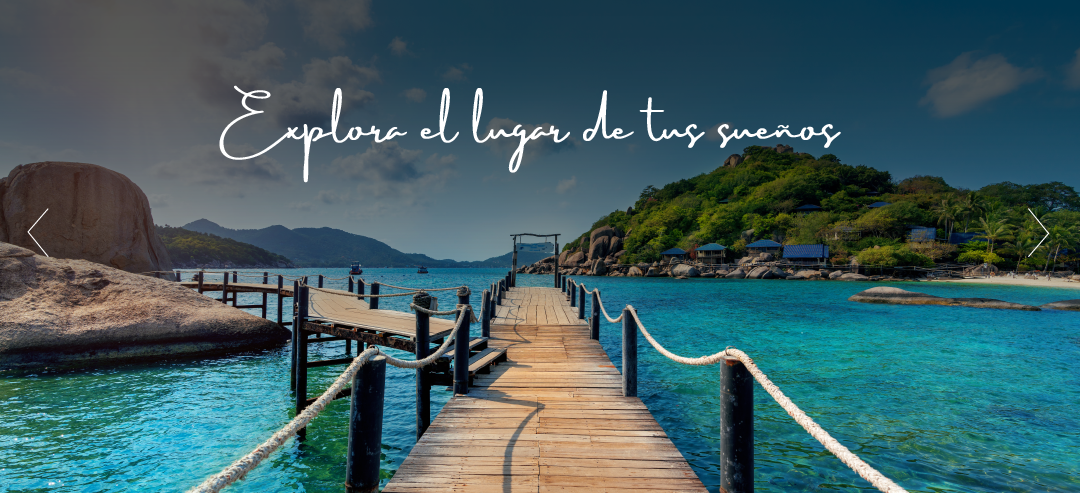
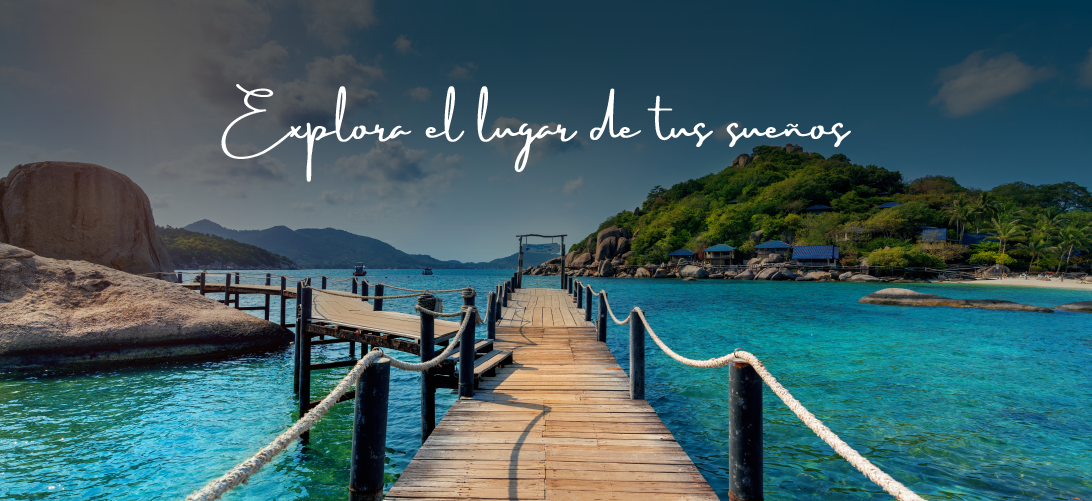
agregue slide y hice algunos elementos responsive

diff --git a/section/paquetes.html b/section/paquetes.html
@@ -6,7 +6,7 @@
     <meta name="viewport" content="width=device-width, initial-scale=1.0">
     <title>Lugones Turismo</title>
     <link href="https://cdn.jsdelivr.net/npm/bootstrap@5.1.3/dist/css/bootstrap.min.css" rel="stylesheet" integrity="sha384-1BmE4kWBq78iYhFldvKuhfTAU6auU8tT94WrHftjDbrCEXSU1oBoqyl2QvZ6jIW3" crossorigin="anonymous">
-    <link rel="shortcut icon" href="./img/favicon.png">
+    
     <link rel="stylesheet" href="../style/style.css"/>
 </head>
 <body>
@@ -39,13 +39,32 @@
 
     </header>
     
-    <section>
-        <div id="slide">
-        
-            <img src="../img/carrusel2.png" alt="slide" class="slide__foto1"/>
-    
+    <div id="carouselExampleIndicators" class="carousel slide" data-bs-ride="carousel">
+      <div class="carousel-indicators">
+        <button type="button" data-bs-target="#carouselExampleIndicators" data-bs-slide-to="0" class="active" aria-current="true" aria-label="Slide 1"></button>
+        <button type="button" data-bs-target="#carouselExampleIndicators" data-bs-slide-to="1" aria-label="Slide 2"></button>
+        <button type="button" data-bs-target="#carouselExampleIndicators" data-bs-slide-to="2" aria-label="Slide 3"></button>
+      </div>
+      <div class="carousel-inner">
+        <div class="carousel-item active">
+          <img src="../img/carrusel.png" class="d-block w-100" alt="...">
         </div>
-    </section>
+        <div class="carousel-item">
+          <img src="../img/carrusel1.png" class="d-block w-100" alt="...">
+        </div>
+        <div class="carousel-item">
+          <img src="../img/carrusel2.png" class="d-block w-100" alt="...">
+        </div>
+      </div>
+      <button class="carousel-control-prev" type="button" data-bs-target="#carouselExampleIndicators" data-bs-slide="prev">
+        <span class="carousel-control-prev-icon" aria-hidden="true"></span>
+        <span class="visually-hidden">Anterior</span>
+      </button>
+      <button class="carousel-control-next" type="button" data-bs-target="#carouselExampleIndicators" data-bs-slide="next">
+        <span class="carousel-control-next-icon" aria-hidden="true"></span>
+        <span class="visually-hidden">Siguiente</span>
+      </button>
+    </div>
 
 
     <section id="destinos2">
@@ -61,40 +80,38 @@
                    <img src="../img/p7.png" alt="destinos"/>
                    <img src="../img/p8.png" alt="destinos"/>
                    <img src="../img/p9.png" alt="destinos"/>
-                </div>
+              </div>
    
                
-       </section>
-
-       <section id="publicidad">
-        <a href="https://www.mlugones.com/" target="_blank"> <img src="../img/publicidad.png " alt="publicidad" /></a>
-     </section>
+              <section id="publicidad">
+                <a href="https://www.mlugones.com/" target="_blank"><img src="../img/publicidad.png " class="img-fluid" alt="publicidad"></a>
+             </section>
 
 
 
 
      <footer>
-        <div class="footer__bloque1">
-            <div class="ubicacion"> 
-                 
-                <p>Santa Rosa 31 entre piso oficina 9, Córdoba, Argentina.</p>
-           </div> 
-           <div class="contacto">
-              
-                <p>5493513042476</p> 
-            </div>
-            <div class="mail">
+      <div class="footer__bloque1">
+          <div class="ubicacion"> 
                
-                <p>Email: turismo@mlugones.com</p>
-            </div>
-        </div>
-        <div class="footer__bloque2">
-                <P>Legajo 15916</P>
-                <p>Copyright 2022 – Asociación Poeta Lugones – Mutual CYD</p>
-        </div>
+              <p>Santa Rosa 31 entre piso oficina 9, Córdoba, Argentina.</p>
+         </div> 
+         <div class="contacto">
+            
+              <p>5493513042476</p> 
+          </div>
+          <div class="mail">
+             
+              <p>Email: turismo@mlugones.com</p>
+          </div>
+      </div>
+      <div class="footer__bloque2">
+              <P>Legajo 15916</P>
+              <p>Copyright 2022 – Asociación Poeta Lugones – Mutual CYD</p>
+      </div>
 
 
-    </footer>
+  </footer>
     <script src="https://cdn.jsdelivr.net/npm/bootstrap@5.1.3/dist/js/bootstrap.bundle.min.js" integrity="sha384-ka7Sk0Gln4gmtz2MlQnikT1wXgYsOg+OMhuP+IlRH9sENBO0LRn5q+8nbTov4+1p" crossorigin="anonymous"></script>
 
 </body>

diff --git a/index.html b/index.html
@@ -41,11 +41,35 @@
         
     </header>
     
-    <div id="slide">
-        
-        <img src="./img/carrusel.png" alt="slide" class="slide__foto1"/>
 
+    <div id="carouselExampleIndicators" class="carousel slide" data-bs-ride="carousel">
+      <div class="carousel-indicators">
+        <button type="button" data-bs-target="#carouselExampleIndicators" data-bs-slide-to="0" class="active" aria-current="true" aria-label="Slide 1"></button>
+        <button type="button" data-bs-target="#carouselExampleIndicators" data-bs-slide-to="1" aria-label="Slide 2"></button>
+        <button type="button" data-bs-target="#carouselExampleIndicators" data-bs-slide-to="2" aria-label="Slide 3"></button>
+      </div>
+      <div class="carousel-inner">
+        <div class="carousel-item active">
+          <img src="./img/carrusel.png" class="d-block w-100" alt="...">
+        </div>
+        <div class="carousel-item">
+          <img src="./img/carrusel1.png" class="d-block w-100" alt="...">
+        </div>
+        <div class="carousel-item">
+          <img src="./img/carrusel2.png" class="d-block w-100" alt="...">
+        </div>
+      </div>
+      <button class="carousel-control-prev" type="button" data-bs-target="#carouselExampleIndicators" data-bs-slide="prev">
+        <span class="carousel-control-prev-icon" aria-hidden="true"></span>
+        <span class="visually-hidden">Anterior</span>
+      </button>
+      <button class="carousel-control-next" type="button" data-bs-target="#carouselExampleIndicators" data-bs-slide="next">
+        <span class="carousel-control-next-icon" aria-hidden="true"></span>
+        <span class="visually-hidden">Siguiente</span>
+      </button>
     </div>
+    
+   
 
     <section id="destinos1">
      <h1 class="destinos1__titulo">Los destinos mas buscados</h1>
@@ -62,13 +86,13 @@
 
             <div class="button__contenedor">
                 <button  name="button" type="button" class="btn btn-secondary btn-sm destinos1__boton"><a href="./section/destinos.html">Ver mas destinos</a></button>
-            
+                
             </div>
     </section>
 
 
     <section id="publicidad">
-       <a href="https://www.mlugones.com/" target="_blank"> <img src="./img/publicidad.png " alt="publicidad" /></a>
+       <a href="https://www.mlugones.com/" target="_blank"><img src="./img/publicidad.png " class="img-fluid" alt="publicidad"></a>
     </section>
 
 

diff --git a/section/destinos.html b/section/destinos.html
@@ -39,13 +39,32 @@
 
     </header>
     
-    <section>
-        <div id="slide">
-        
-            <img src="../img/carrusel1.png" alt="slide" class="slide__foto1"/>
-    
+    <div id="carouselExampleIndicators" class="carousel slide" data-bs-ride="carousel">
+      <div class="carousel-indicators">
+        <button type="button" data-bs-target="#carouselExampleIndicators" data-bs-slide-to="0" class="active" aria-current="true" aria-label="Slide 1"></button>
+        <button type="button" data-bs-target="#carouselExampleIndicators" data-bs-slide-to="1" aria-label="Slide 2"></button>
+        <button type="button" data-bs-target="#carouselExampleIndicators" data-bs-slide-to="2" aria-label="Slide 3"></button>
+      </div>
+      <div class="carousel-inner">
+        <div class="carousel-item active">
+          <img src="../img/carrusel.png" class="d-block w-100" alt="...">
         </div>
-    </section>
+        <div class="carousel-item">
+          <img src="../img/carrusel1.png" class="d-block w-100" alt="...">
+        </div>
+        <div class="carousel-item">
+          <img src="../img/carrusel2.png" class="d-block w-100" alt="...">
+        </div>
+      </div>
+      <button class="carousel-control-prev" type="button" data-bs-target="#carouselExampleIndicators" data-bs-slide="prev">
+        <span class="carousel-control-prev-icon" aria-hidden="true"></span>
+        <span class="visually-hidden">Anterior</span>
+      </button>
+      <button class="carousel-control-next" type="button" data-bs-target="#carouselExampleIndicators" data-bs-slide="next">
+        <span class="carousel-control-next-icon" aria-hidden="true"></span>
+        <span class="visually-hidden">Siguiente</span>
+      </button>
+    </div>
 
     <section id="opciones">
         <h1 class="opciones__titulo">¿Que viaje desea realizar?</h1>

diff --git a/style/style.css b/style/style.css
@@ -1,5 +1,5 @@
 * {
-    Margin:0;
+    Margin:8px;
     padding:0;
     
  }
@@ -14,11 +14,29 @@
  
 
 
- header{
+ nav{
     background-color: #f5f3f3;
+  
     
     
  }
+
+ .nav-link{
+    margin-left: 25px;
+    margin-right: 25px;
+ }
+
+ .navbar-collapse {
+    background-color: #f5f3f3;
+    margin: 8px -12px;
+    padding-left: 12px;
+}
+
+ #carouselExampleIndicators{
+    z-index: -1;
+ }
+
+ 
  a:-webkit-any-link {
     color: #FF6633;;
     cursor: pointer;
@@ -48,9 +66,6 @@ nav{
 
 
 
-#slide img{
-    width: 100%;
-}
 
 
 #destinos1{
@@ -336,10 +351,12 @@ footer{
 }
 
 .contacto{
-    display: flex;
-    width: 100%;
+    display: grid;
+    grid-template-columns: repeat(4, 1fr) ;
+    justify-content: center;
     align-items: center;
-    justify-content: space-between;
+    justify-items: center;
+    
     
 }
 
@@ -393,6 +410,14 @@ footer{
      
       
     }
+    .contacto{
+        
+        grid-template-columns: 2fr 2fr ;
+        
+        
+        
+    }
+    
 
 
 }
@@ -411,6 +436,9 @@ footer{
       
     
     }
-
+    .contacto{
+        
+        grid-template-columns: 1fr ;
+        
   
 }

diff --git a/section/contacto.html b/section/contacto.html
@@ -6,7 +6,7 @@
     <meta name="viewport" content="width=device-width, initial-scale=1.0">
     <title>Lugones Turismo</title>
     <link href="https://cdn.jsdelivr.net/npm/bootstrap@5.1.3/dist/css/bootstrap.min.css" rel="stylesheet" integrity="sha384-1BmE4kWBq78iYhFldvKuhfTAU6auU8tT94WrHftjDbrCEXSU1oBoqyl2QvZ6jIW3" crossorigin="anonymous">
-    <link rel="shortcut icon" href="./img/favicon.png">
+    
     <link rel="stylesheet" href="../style/style.css"/>
 </head>
 <body>
